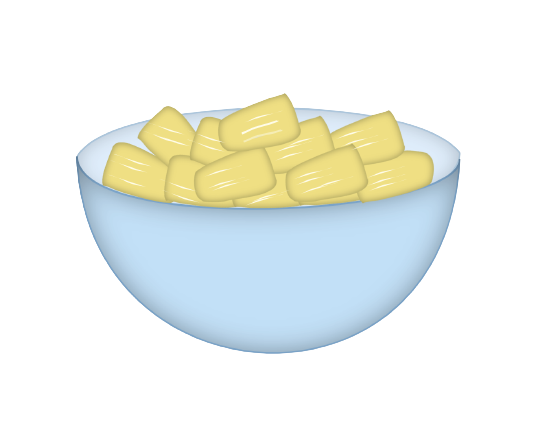
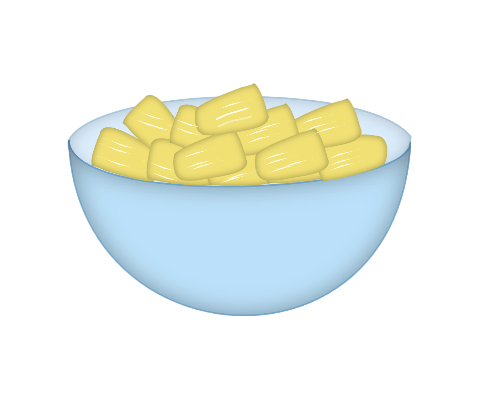
level 3 and images

diff --git a/utils/game/groceryStore/quiz/level3/generateLevel3Questions.js b/utils/game/groceryStore/quiz/level3/generateLevel3Questions.js
@@ -38,7 +38,7 @@ const generateLevel3Questions = (recipes,questionType,randomGenerator) => {
 const strawberryLimeadeQuestions = (questions,recipe,randomGenerator) => {
     const q1num1 = randomGenerator.randomInt(10,31)
     const q1num2 = randomGenerator.randomInt(5,9)
-    const q1Answer = 
+    const q1Answer = Math.round((((q1num1*1.5)/q1num2)*5.49+ Number.EPSILON) * 100) / 100
     //Unit price question
     questions.push(createGameQuestion(
         {
@@ -283,12 +283,173 @@ const tomatilloSauceAndTortillaChipsQuestions = (questions,recipe,randomGenerato
 }
 
 const mangoJuiceQuestions = (questions,recipe,randomGenerator) => {
+    const q1num1 = 6*randomGenerator.randomInt(1,6)
+    const q1Answer = Math.round((((8*q1num1)/16)*3.79 + Number.EPSILON) * 100) / 100
+    questions.push(createGameQuestion(
+        {
+            en: 'A 16 ounce bag of mango chunks costs $3.79. If you want to make '+q1num1+' servings of mango juice, how much money do you need to spend on mango chunks? Round up to the nearest hundredth. Hint: 1 cup = 8 ounces.',
+            es: 'Una bolsa de 16 onzas de trozos de mango cuesta $3.79. Si quieres hacer '+q1num1+' porciones de jugo de mango, ¿cuánto dinero necesitas gastar en trozos de mango? Redondea al centésimo más cercano. Sugerencia: 1 taza = 8 onzas.'
+        },
+        q1Answer,
+        [
+            {
+                en: 'Total ounces = cups per 1 serving * ounces per 1 cup * servings needed\nTotal bags = total ounces / ounces per 1 bag\nTotal price = total bags * price per 1 bag',                
+                es: 'Onzas totales = tazas por 1 porción * onzas por 1 taza * porciones necesarias\nBolsas totales = onzas totales / onzas por 1 bolsa\nPrecio total = bolsas totales * precio por 1 bolsa'
+            },
+            {
+                en: 'Total ounces = 1 * 8 * '+q1num1+' = “x”\nTotal bags = “x” / 16 = “y”\nTotal price = “y” * 3.79 = ' + q1Answer,                
+                es: 'Onzas totales = 1 * 8 * '+q1num1+' = “x”\nBolsas totales = “x” / 16 = “y”\nPrecio total = “y” * 3.79 = ' + q1Answer
+            }
+        ],
+        'money',
+        null,
+        null
+    ))
+
+    const q2num1 = 9*randomGenerator.randomInt(2,8)
+    const q2Answer = Math.round((((4*q1num1)/36)*2.45 + Number.EPSILON) * 100) / 100
+    questions.push(createGameQuestion(
+        {
+            en: 'At the store, a 1 pound (lb) bag of sugar costs $2.45. If you can only buy sugar in these bags, how much money would you need to spend on sugar to make this recipe '+q2num1+' times? Hint: 1 pound (lb) of sugar = 36 tablespoons (tbsp).',
+            es: 'En la tienda, una bolsa de 1 libra (lb) de azúcar cuesta $2.45. Si solo puedes comprar azúcar en estas bolsas, ¿cuánto dinero necesitarías gastar en azúcar para hacer esta receta '+q2num1+' veces? Sugerencia: 1 libra (lb) de azúcar = 36 cucharadas (cda).'
+        },
+        q2Answer,
+        [
+            {
+                en: 'Total tbsp = recipe sugar tbsp * amount of recipes made\nTotal pounds = total tbsp / tbsp per 1 pound\nTotal cost = total pounds * price per 1 pound',
+                es: 'Cucharadas totales = cucharadas de azúcar de receta * cantidad de recetas hechas\nLibras totales = cucharadas totales / cucharadas por 1 libra\nCosto total = libras totales * precio por 1 libra'
+            },
+            {
+                en: 'Total tbsp = 4 * '+q2num1+' = “x”\nTotal pounds = “x” / 36 = “y”\nTotal cost = “y” * 2.45 = ' + q2Answer,                
+                es: 'Cucharadas totales = 4 * '+q2num1+' = “x”\nLibras totales = “x” / 36 = “y”\nCosto total = “y” * 2.45 = ' + q2Answer
+            }
+        ],
+        'money',
+        null,
+        null
+    ))
 }
 
 const OJCitrusCoolerQuestions = (questions,recipe,randomGenerator) => {
+    const q1num1 = randomGenerator.randomInt(8,33)
+    const q1Answer = Math.round((((q1num1*2)/16)*1.29 + Number.EPSILON) * 100) / 100
+    questions.push(createGameQuestion(
+        {
+            en: 'You are following this recipe and want to make '+q1num1+' servings of OJ Citrus Cooler. If sugar costs $1.29 for 1 cup, how much money do you need to spend on sugar? Hint: 1 cup = 16 tablespoons (tbsp).',
+            es: 'Estás siguiendo esta receta y quieres hacer '+q1num1+' porciones de OJ Citrus Cooler. Si el azúcar cuesta $1.29 por 1 taza, ¿cuánto dinero necesitas gastar en azúcar? Sugerencia: 1 taza = 16 cucharadas (cda).'
+        },
+        q1Answer,
+        [
+            {
+                en: 'Total sugar tbsp = servings needed * sugar tbsp per 1 serving\nTotal cups = Total sugar tbsp / tbsp per 1 cup  (round up)\nTotal cost = total cups * price per 1 cup',
+                es: 'Cucharadas totales de azúcar = porciones necesitadas * cucharadas de azúcar por 1 porción\nTazas totales = Cucharadas totales de azúcar / cucharadas por 1 taza (redondear hacia arriba)\nCosto total = tazas totales * precio por 1 taza'
+            },
+            {
+                en: 'Total sugar tbsp = '+q1num1+' * 2 = “x”\nTotal cups = “x” / 16 = “y”  (round up)\nTotal cost = “y” * 1.29 = ' + q1Answer,
+                es: 'Cucharadas totales de azúcar = '+q1num1+' * 2 = “x”\nTazas totales = “x” / 16 = “y”  (redondear hacia arriba)\nCosto total = “y” * 1.29 = ' + q1Answer
+            }
+        ],
+        'money',
+        null,
+        null
+    ))
+
+    const q2num1 = randomGenerator.randomInt(6,29)
+    const q2Answer = Math.ceil(q2num1*1.5*.5)
+    questions.push(createGameQuestion(
+        {
+            en: 'The OJ Citrus Cooler recipe requires 1 ½  cups of pineapple chunks. At the store, pineapple chunks are sold in pounds. If you’re making '+q2num1+', how many pounds of pineapple chunks do you need to buy for the recipe? Hint: 1 pound of pineapple chunks = 2 cups.',
+            es: 'La receta de OJ Citrus Cooler requiere 1 ½ tazas de trozos de piña. En la tienda, los trozos de piña se venden en libras. Si estás haciendo '+q2num1+', ¿cuántas libras de trozos de piña necesitas comprar para la receta? Sugerencia: 1 libra de trozos de piña = 2 tazas.'
+        },
+        q2Answer,
+        [
+            {
+                en: 'Total cups = servings needed * pineapple cups per 1 serving\nTotal pounds = total cups / cups per 1 pound',                
+                es: 'Tazas totales = porciones necesitadas * tazas de piña por 1 porción\nLibras totales = tazas totales / tazas por 1 libra'
+            },
+            {
+                en: 'Total cups = '+q2num1+' * 1 ½ = “x”\nTotal pounds = “x” / 2 = ' + q2Answer,
+                es: 'Tazas totales = '+q2num1+' * 1 ½ = “x”\nLibras totales = “x” / 2 = ' + q2Answer
+            }
+        ],
+        'wholeNumber',
+        null,
+        null
+    ))
 }
 
 const lentilSoupQuestions = (questions,recipe,randomGenerator) => {
+    const q1num1 = randomGenerator.randomInt(3,9)
+    const q1Answer = Math.round(((q1num1/.75)+ Number.EPSILON) * 100) / 100
+    questions.push(createGameQuestion(
+        {
+            en: 'You have $'+q1num1+' to spend on onions. If one cup of onions costs $0.75, How many cups of onions can you buy with your budget? Round down to the nearest whole number.',
+            es: 'Tienes $'+q1num1+' para gastar en cebollas. Si una taza de cebolla cuesta $0.75, ¿cuántas tazas de cebolla puedes comprar con tu presupuesto? Redondea al número entero más cercano.'
+        },
+        q1Answer,
+        [
+            {
+                en: 'Total cups = budget / price per 1 cup',
+                es: 'Tazas totales = presupuesto / precio por 1 taza'
+            },
+            {
+                en: 'Total cups = '+q1num1+' / 0.75 = ' + q1Answer,
+                es: 'Tazas totales = '+q1num1+' / 0.75 = ' + q1Answer
+            }
+        ],
+        'money',
+        null,
+        null
+    ))
+
+    const q2num1 = randomGenerator.randomInt(2,7)
+    const q2Answer = Math.round(((q2num1*6*.5)*2.69+ Number.EPSILON) * 100) / 100
+    questions.push(createGameQuestion(
+        {
+            en: 'The lentil soup recipe requires 6 cups of lentils. At the store, you can buy a bag of lentils that contains 2 cups and costs $2.69. How much money do you need to buy enough bags of lentils to make the recipe '+q2num1+' times?',
+            es: 'La receta de sopa de lentejas requiere 6 tazas de lentejas. En la tienda, puedes comprar una bolsa de lentejas que contiene 2 tazas y cuesta $2.69. ¿Cuánto dinero necesitas gastar para comprar suficientes bolsas de lentejas para hacer la receta '+q2num1+' veces?'
+        },
+        q2Answer,
+        [
+            {
+                en: 'Total cups = number of recipes * cups per 1 recipe\nTotal bags = total cups / cups per 1 bag\nTotal cost = total bags * price per 1 bag',
+                es: 'Tazas totales = número de recetas * tazas por 1 receta\nBolsas totales = tazas totales / tazas por 1 bolsa\nCosto total = bolsas totales * precio por 1 bolsa'
+            },
+            {
+                en: 'Total cups = '+q2num1+' * 6 = “x”\nTotal bags = “x” / 2 = “y”\nTotal cost = “y” * 2.69 = ' + q2Answer,                
+                es: 'Tazas totales = '+q2num1+' * 6 = “x”\nBolsas totales = “x” / 2 = “y”\nCosto total = “y” * 2.69 = ' + q2Answer
+            }
+        ],
+        'money',
+        null,
+        null
+    ))
+
+    const q3arr1 = [6.99, 8.99]
+    const q3arr2 = [10.99, 11.99, 12.99]
+    const q3num1 = q3arr1[randomGenerator.randomInt(0,q3arr1.length)]
+    const q3num2 = q3arr2[randomGenerator.randomInt(0,q3arr2.length)]
+    const q3Answer = Math.round(((q2num1*6*.5)*2.69+ Number.EPSILON) * 100) / 100
+    questions.push(createGameQuestion(
+        {
+            en: 'At the grocery store, you find two brands of extra virgin olive oil. The Mediterranean brand  offers a 16 fl. oz. bottle for $'+q3num1+' and the Italian Selection brand offers a 24 fl. oz. bottle for $'+q3num2+'. What is the price per unit of the cheaper brand? Round to the nearest hundredth. Hint: The unit here is 1 fluid ounce (fl oz).',
+            es: 'La receta de sopa de lentejas requiere 6 tazas de lentejas. En la tienda, puedes comprar una bolsa de lentejas que contiene 2 tazas y cuesta $2.69. ¿Cuánto dinero necesitas gastar para comprar suficientes bolsas de lentejas para hacer la receta '+q2num1+' veces?'
+        },
+        q2Answer,
+        [
+            {
+                en: 'Total cups = number of recipes * cups per 1 recipe\nTotal bags = total cups / cups per 1 bag\nTotal cost = total bags * price per 1 bag',
+                es: 'Tazas totales = número de recetas * tazas por 1 receta\nBolsas totales = tazas totales / tazas por 1 bolsa\nCosto total = bolsas totales * precio por 1 bolsa'
+            },
+            {
+                en: 'Total cups = '+q2num1+' * 6 = “x”\nTotal bags = “x” / 2 = “y”\nTotal cost = “y” * 2.69 = ' + q2Answer,                
+                es: 'Tazas totales = '+q2num1+' * 6 = “x”\nBolsas totales = “x” / 2 = “y”\nCosto total = “y” * 2.69 = ' + q2Answer
+            }
+        ],
+        'money',
+        null,
+        null
+    ))
 }
 
 export default generateLevel3Questions
